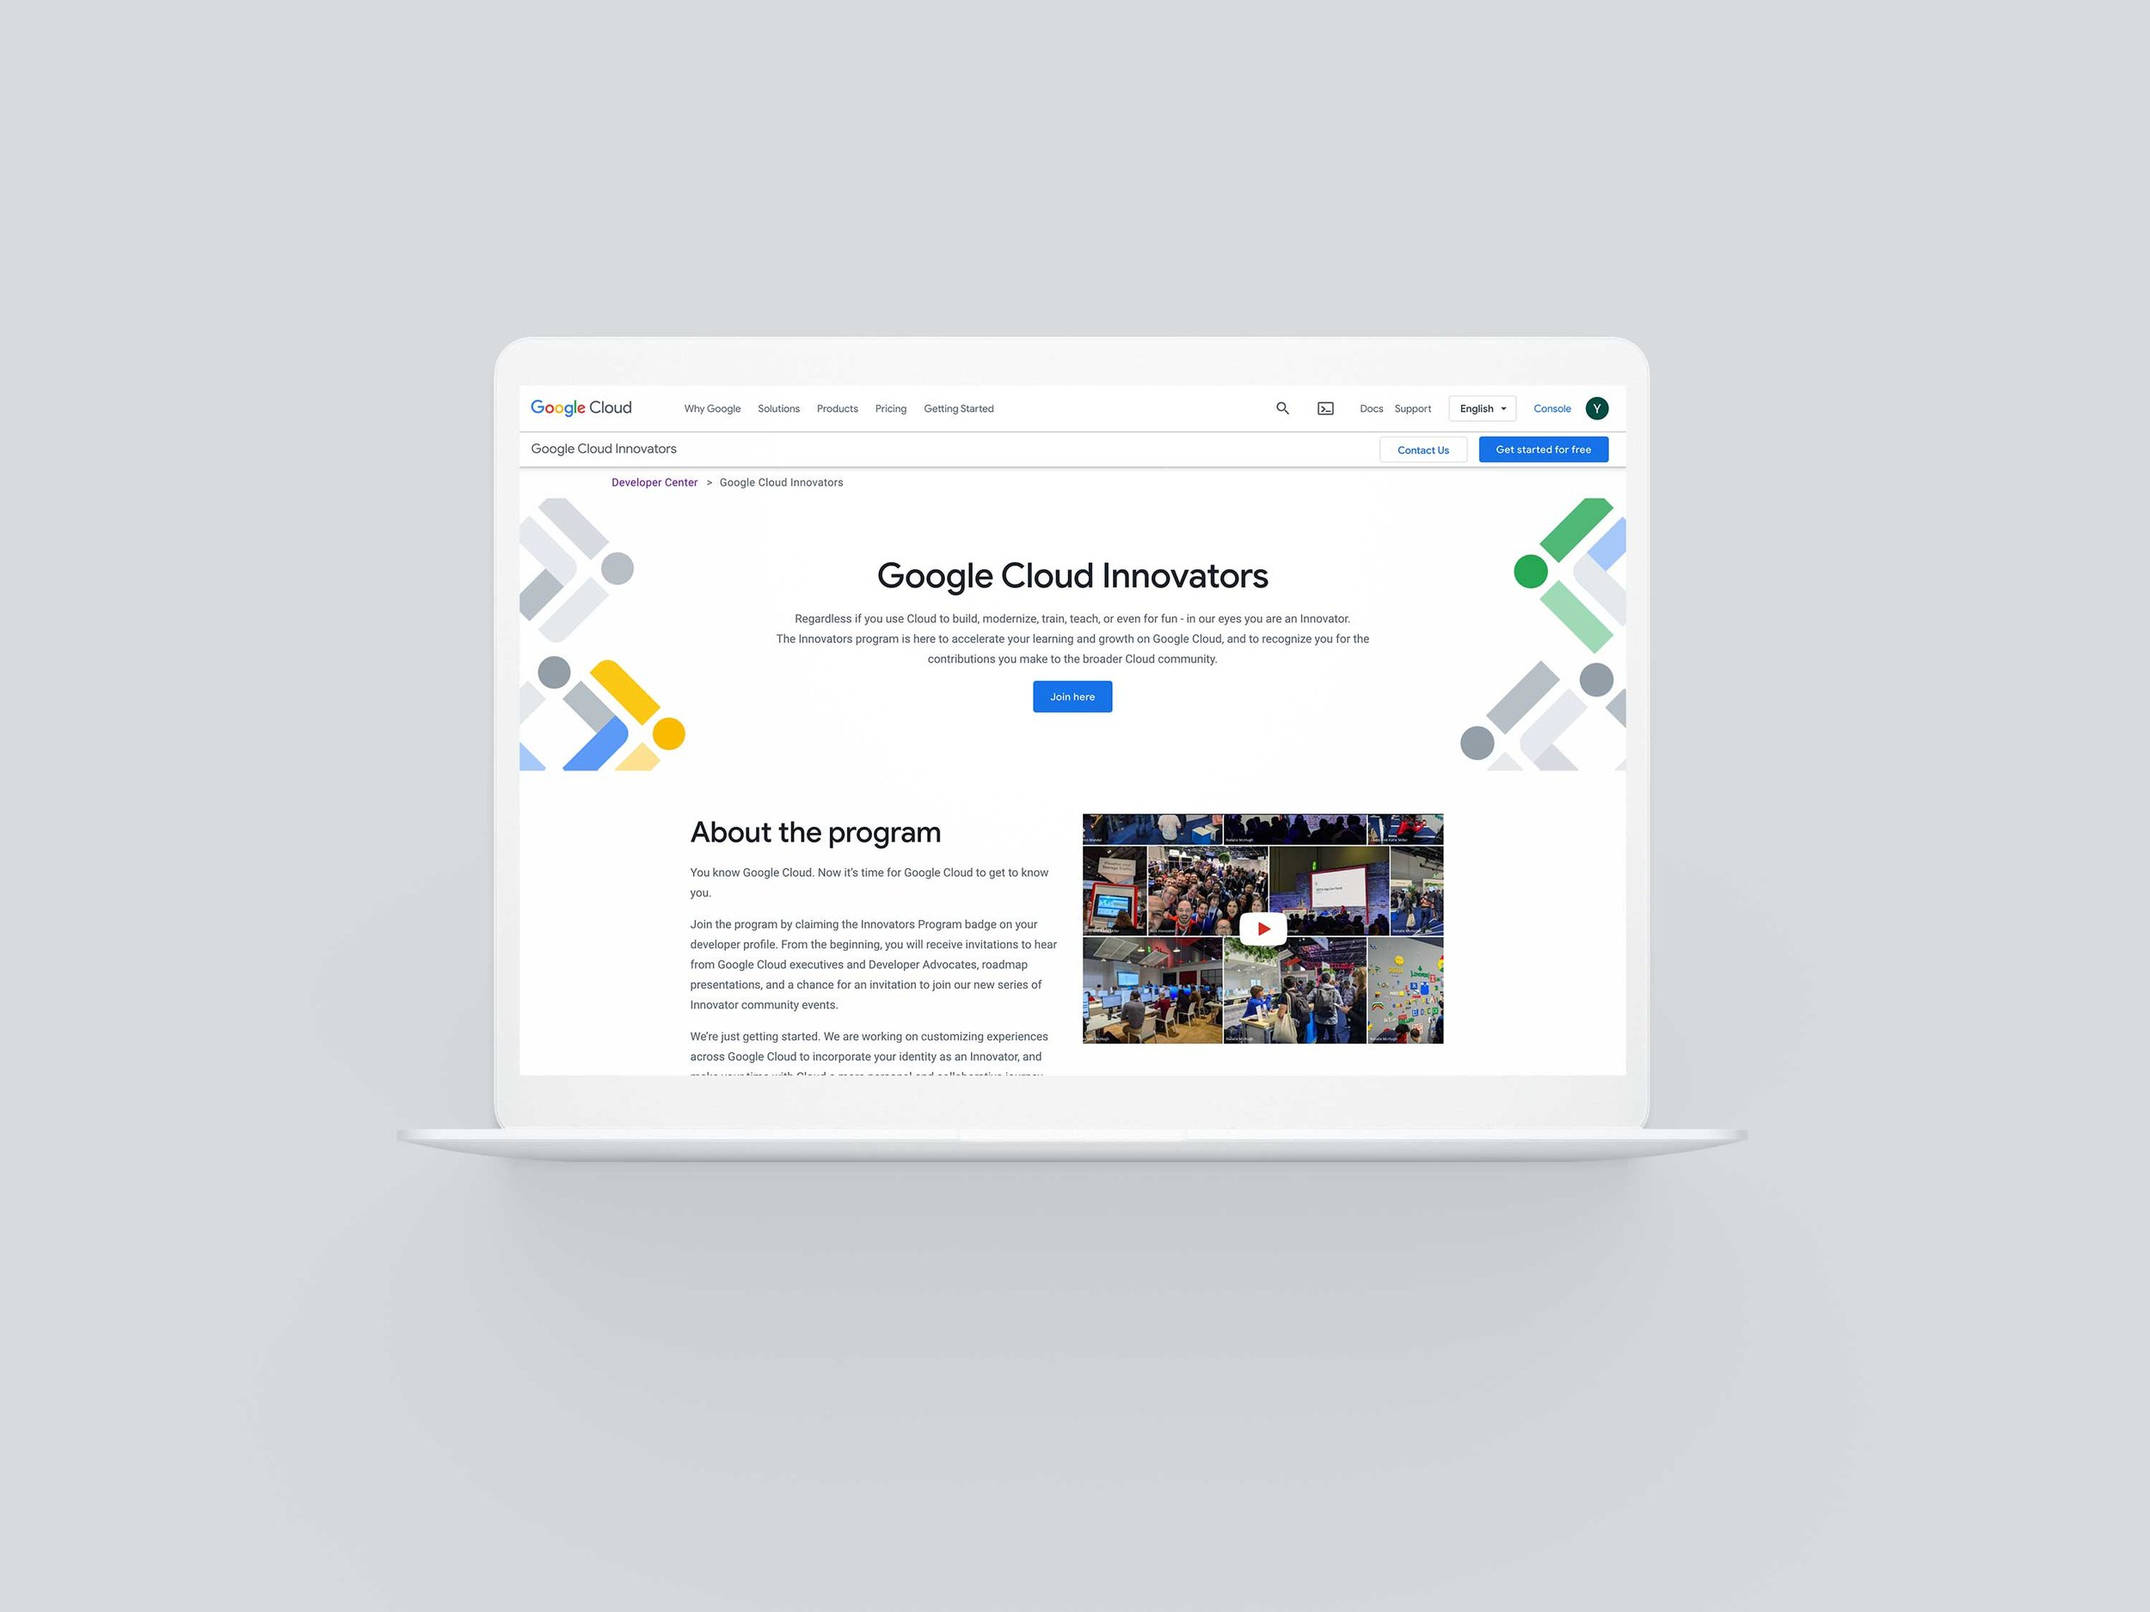
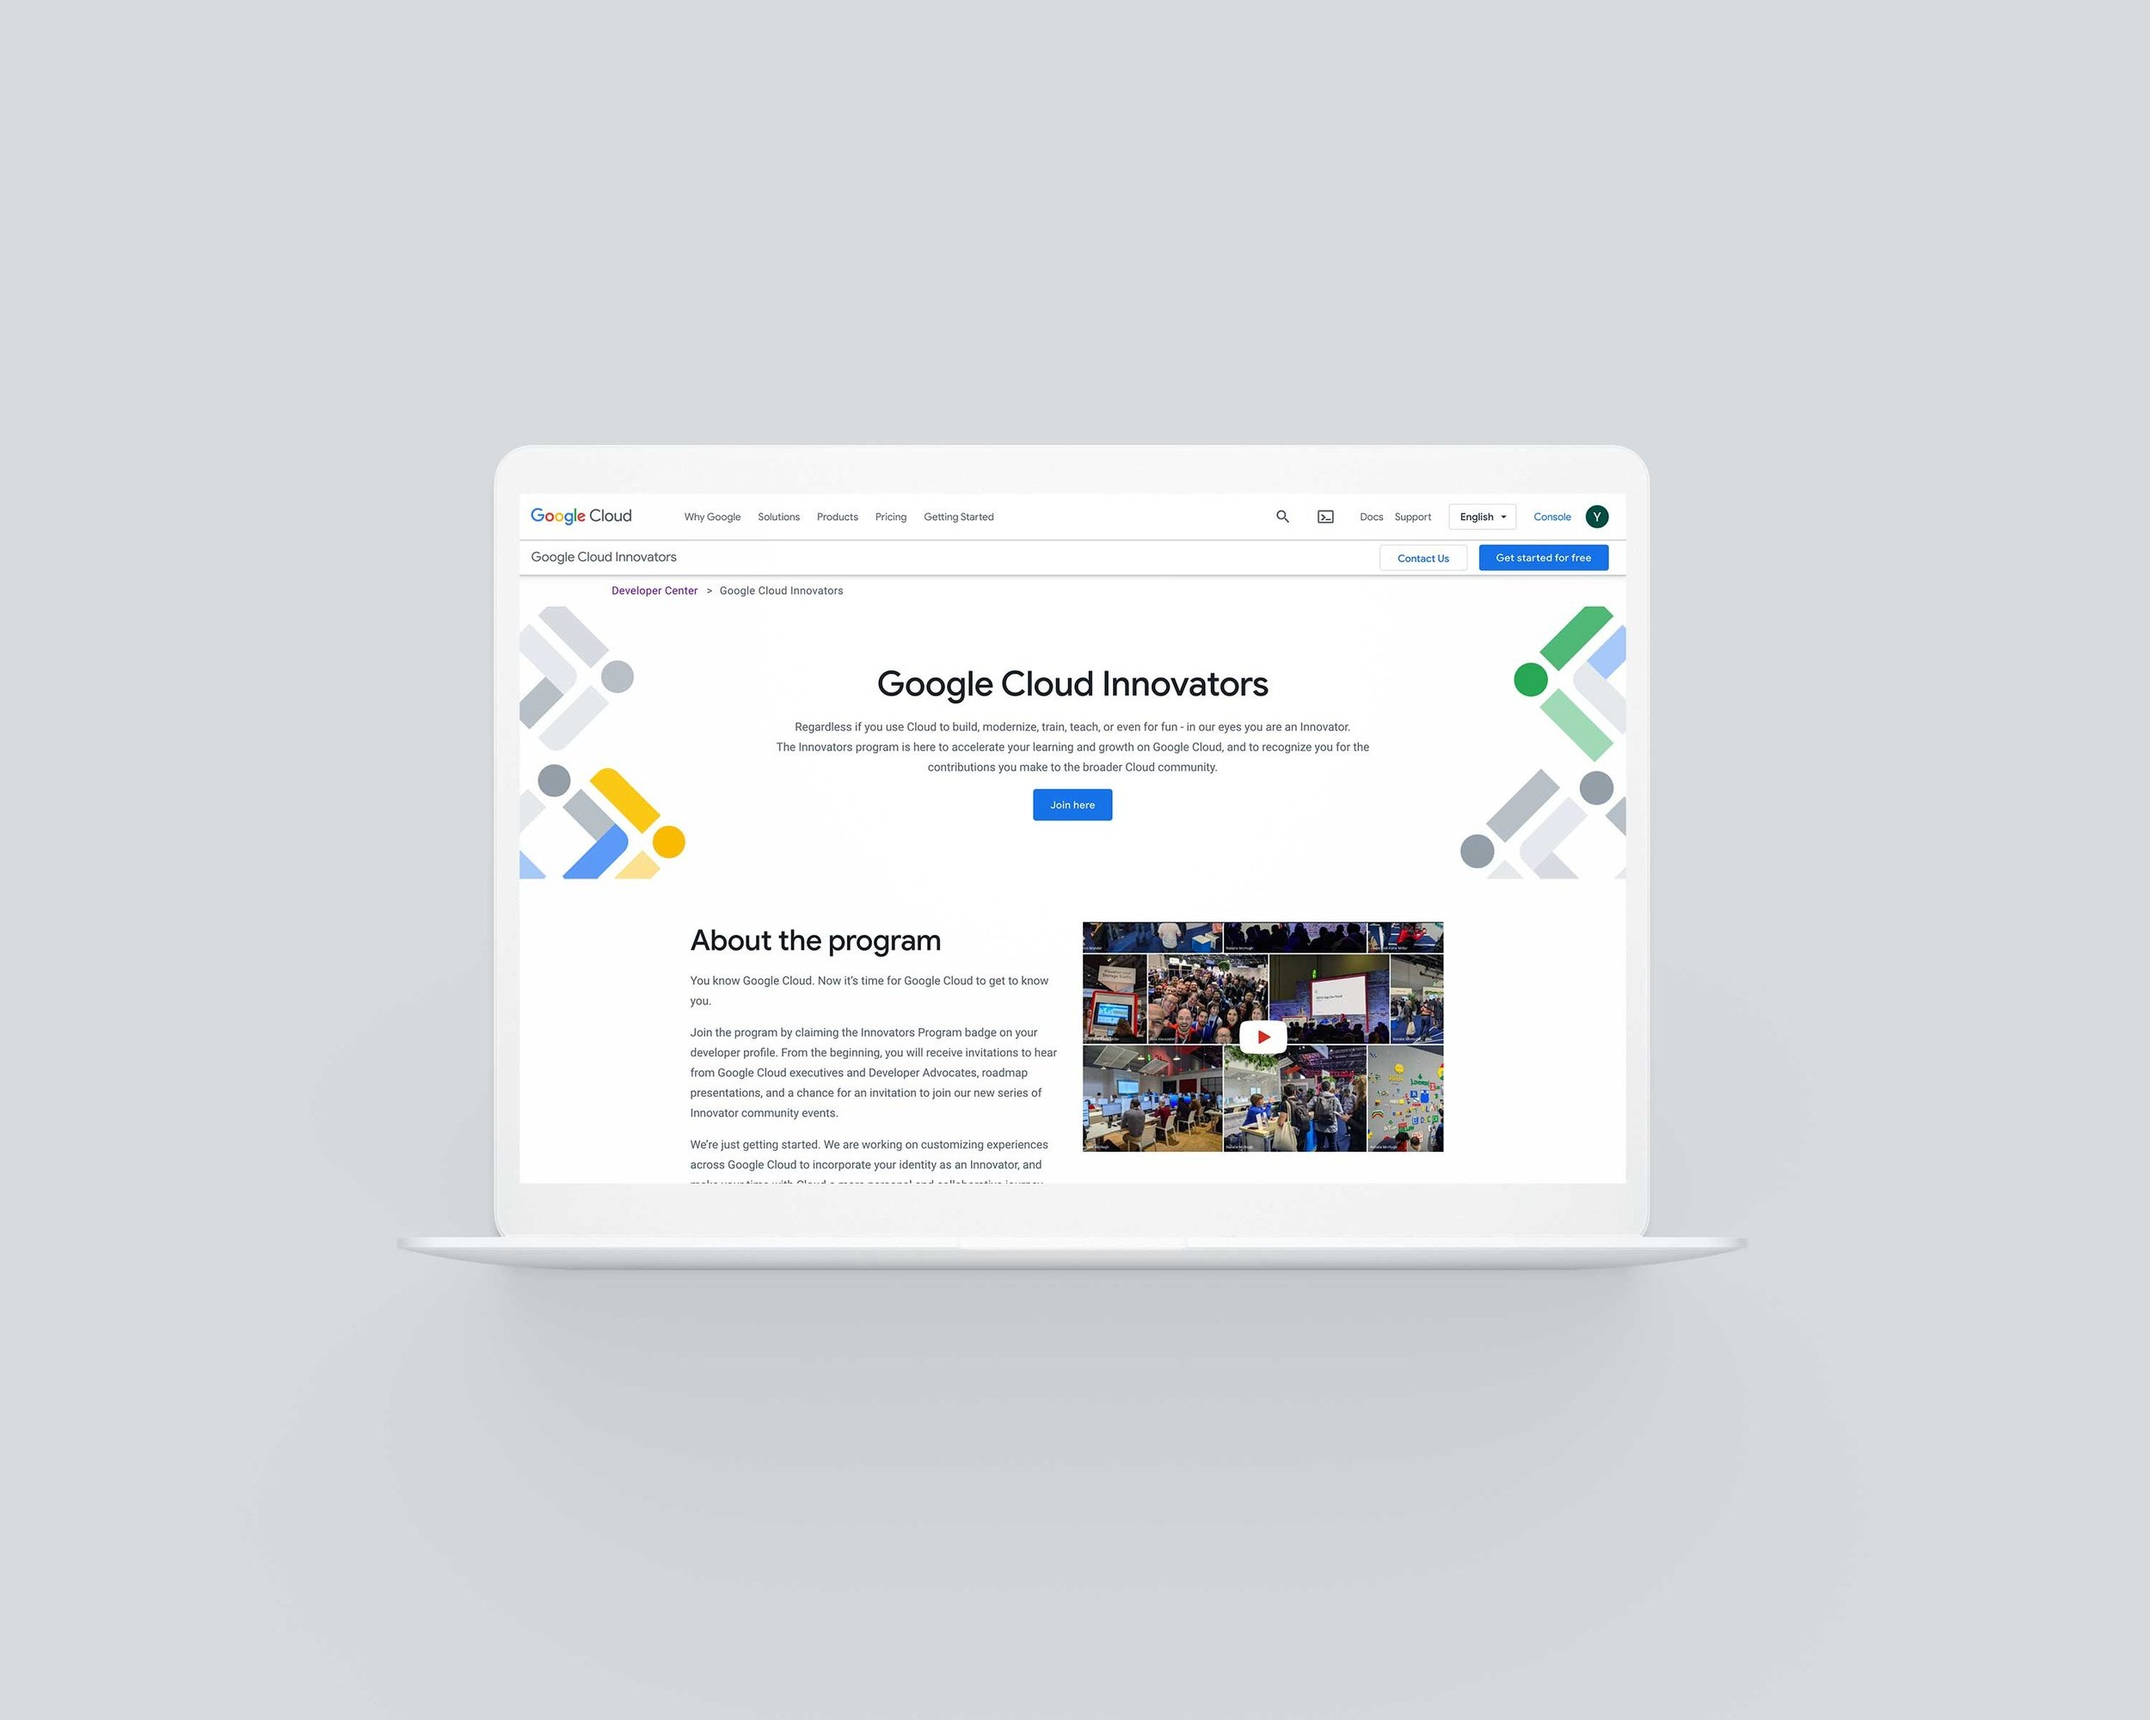
Cloud Innovators case study: laptop band shows the whole device, centred
- Laptop photo padded 126px at the top in its own grey so the device centre sits at the middle of the frame
- Band fits the image instead of cropping it, so the top of the laptop is no longer cut off

Claude-Session: https://claude.ai/code/session_0115iA8H3msbNi2pxHnyWS2h

Changed region(s): [[0.1872, 0.1856, 0.78, 0.7424]]

diff --git a/cloud-innovators/index.html b/cloud-innovators/index.html
@@ -326,7 +326,7 @@ html.cc,html.cc *{cursor:none!important}
   </section>
 
   <section class="band full" aria-label="Full-width image">
-    <div class="bleed"><img class="clip" src="img/ci2-laptop.jpg" alt="Google Cloud Innovators web page on a laptop" style="width:100%;height:100%;object-fit:cover;object-position:50% 46%;position:absolute;inset:0"></div>
+    <div class="bleed"><img class="clip" src="img/ci2-laptop.jpg" alt="Google Cloud Innovators web page on a laptop" style="width:100%;height:100%;object-fit:contain;object-position:50% 50%;background-color:#d7dbde;position:absolute;inset:0"></div>
   </section>
 
   <section class="sec sec-white" aria-label="Project images">
